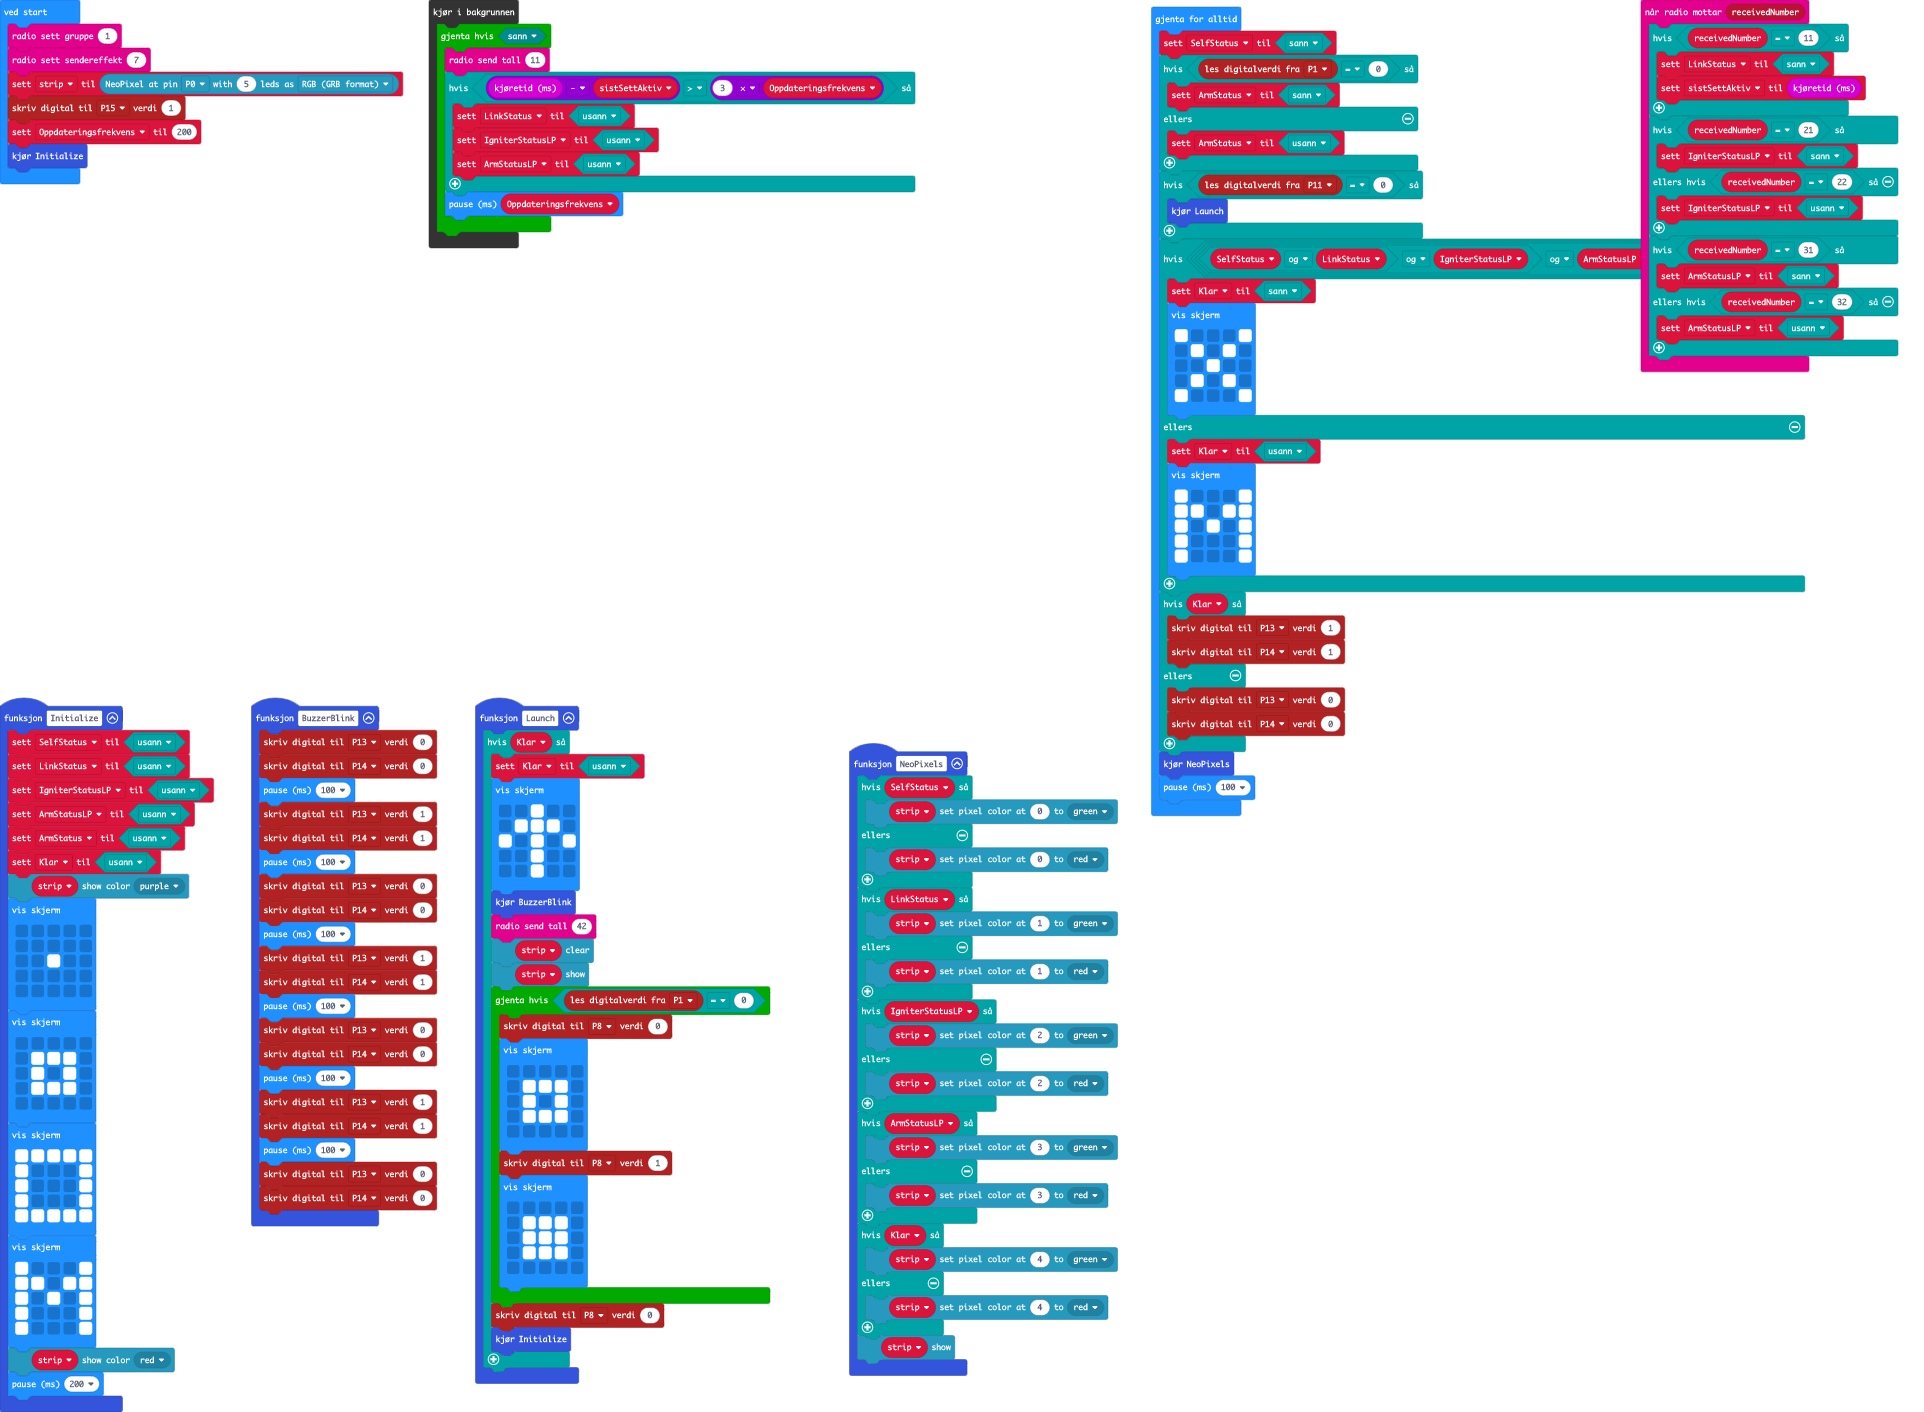
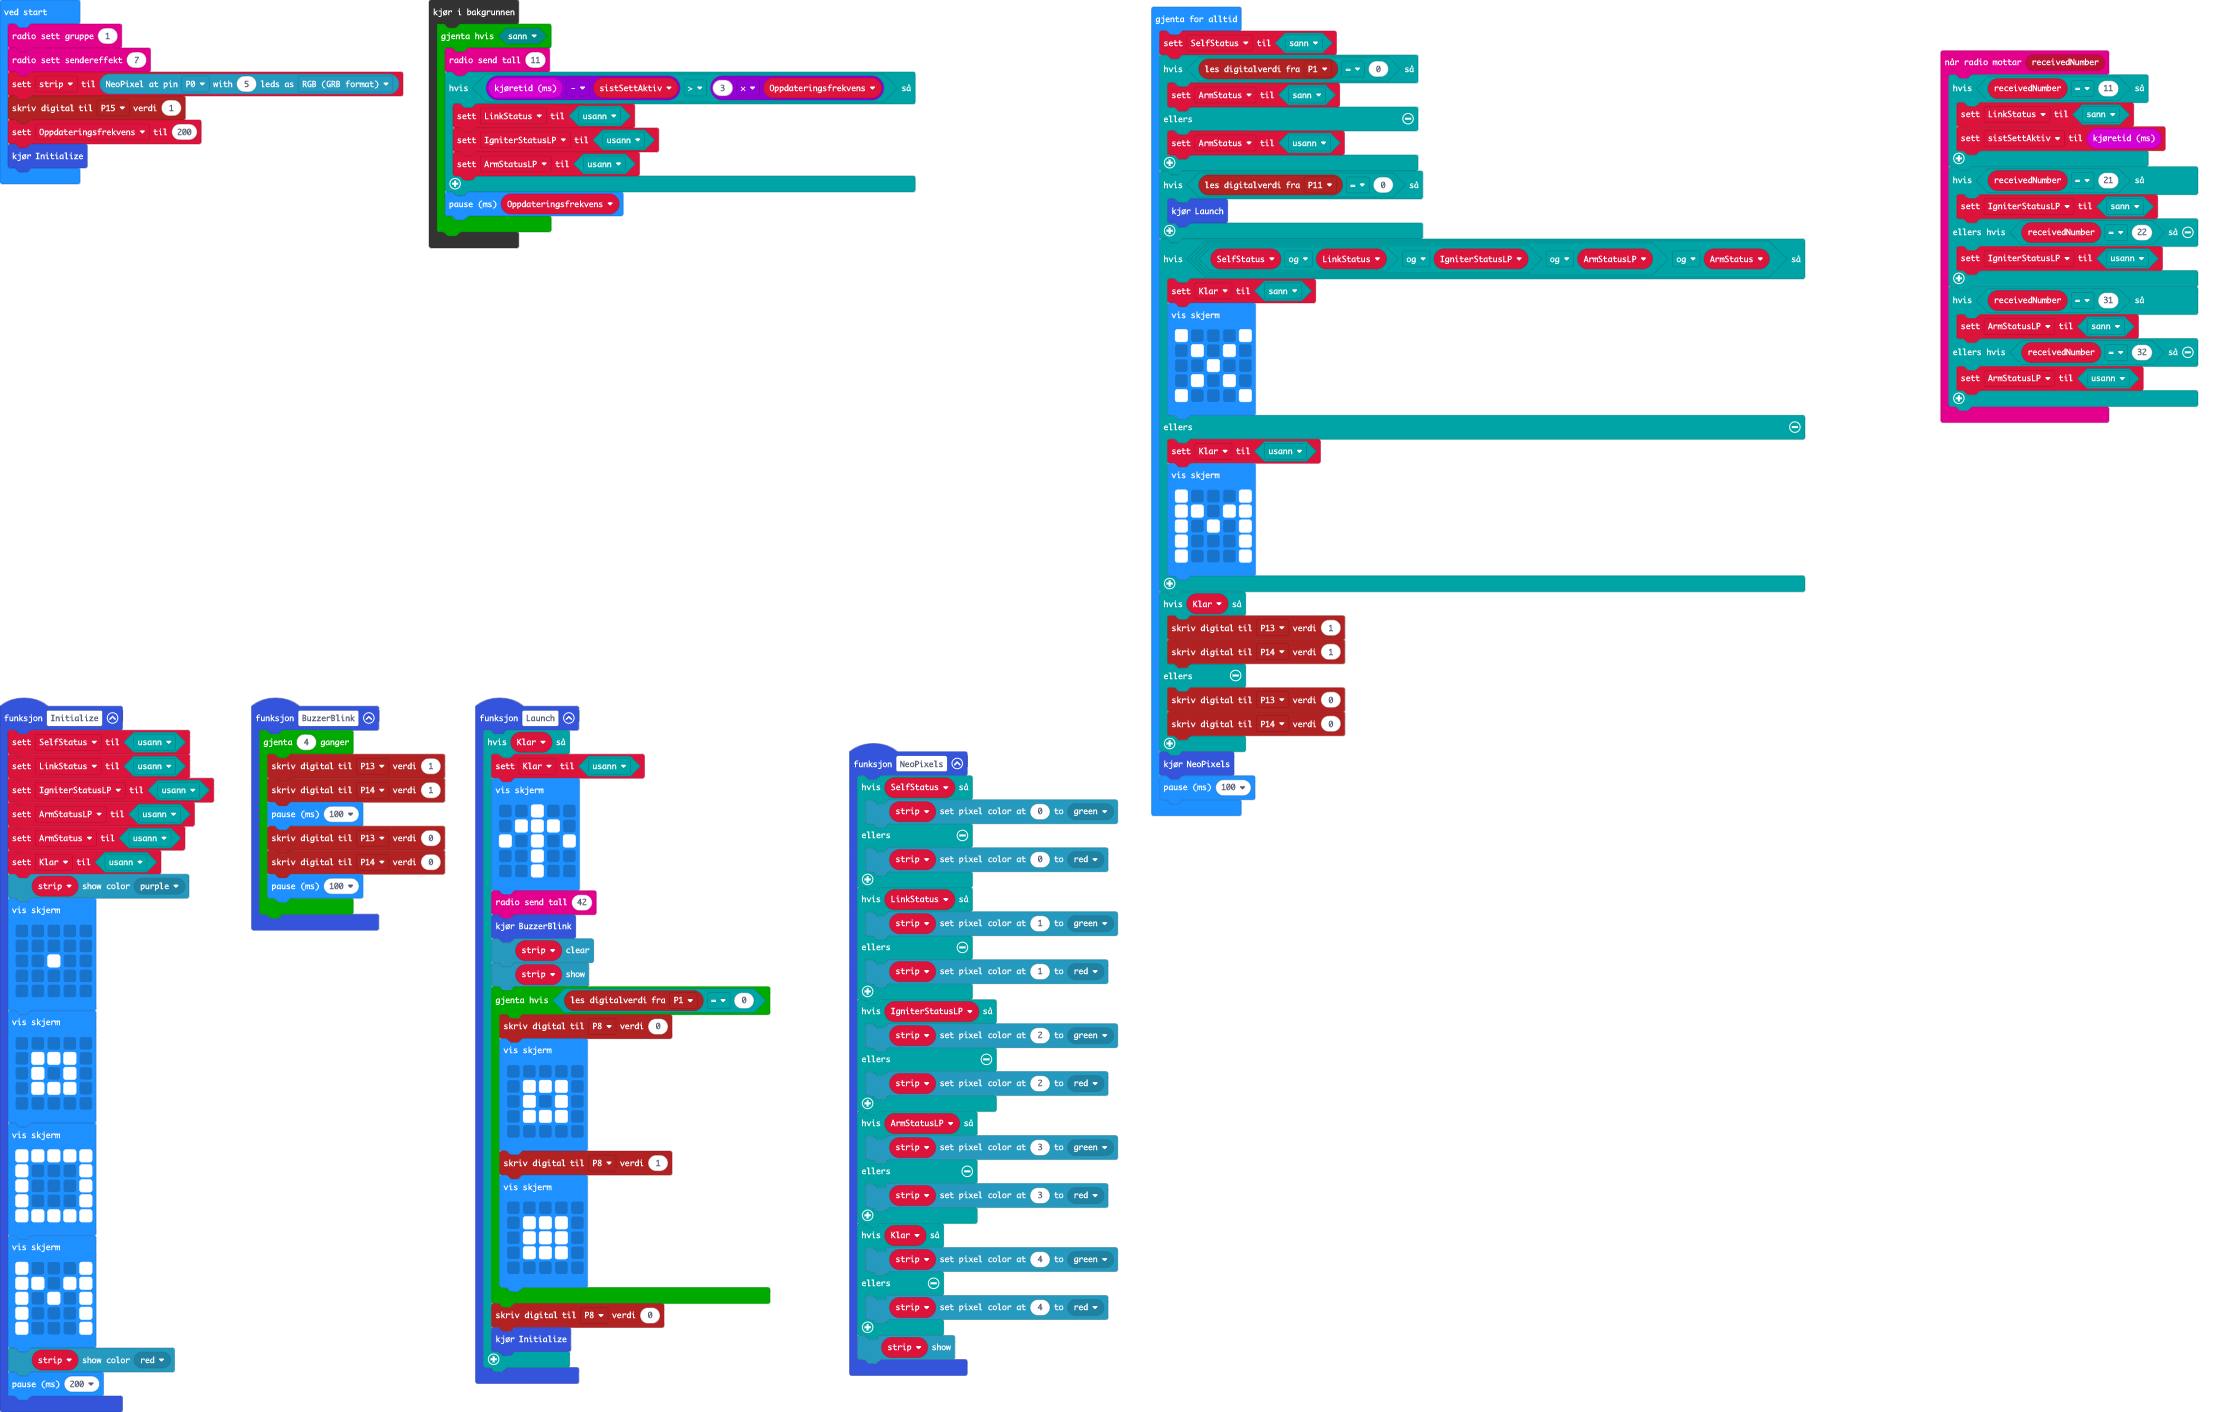
Oppdater main.blocks, main.ts

Changed region(s): [[0.0, 0.0, 0.7796, 1.0], [0.8108, 0.0, 0.9979, 0.3116], [0.8108, 0.4051, 0.9356, 0.4363]]

diff --git a/main.ts b/main.ts
@@ -52,8 +52,8 @@ function Launch () {
             . . # . .
             . . # . .
             `)
-        BuzzerBlink()
         radio.sendNumber(42)
+        BuzzerBlink()
         strip.clear()
         strip.show()
         while (pins.digitalReadPin(DigitalPin.P1) == 0) {
@@ -118,26 +118,14 @@ function Initialize () {
     basic.pause(200)
 }
 function BuzzerBlink () {
-    pins.digitalWritePin(DigitalPin.P13, 0)
-    pins.digitalWritePin(DigitalPin.P14, 0)
-    basic.pause(100)
-    pins.digitalWritePin(DigitalPin.P13, 1)
-    pins.digitalWritePin(DigitalPin.P14, 1)
-    basic.pause(100)
-    pins.digitalWritePin(DigitalPin.P13, 0)
-    pins.digitalWritePin(DigitalPin.P14, 0)
-    basic.pause(100)
-    pins.digitalWritePin(DigitalPin.P13, 1)
-    pins.digitalWritePin(DigitalPin.P14, 1)
-    basic.pause(100)
-    pins.digitalWritePin(DigitalPin.P13, 0)
-    pins.digitalWritePin(DigitalPin.P14, 0)
-    basic.pause(100)
-    pins.digitalWritePin(DigitalPin.P13, 1)
-    pins.digitalWritePin(DigitalPin.P14, 1)
-    basic.pause(100)
-    pins.digitalWritePin(DigitalPin.P13, 0)
-    pins.digitalWritePin(DigitalPin.P14, 0)
+    for (let index = 0; index < 4; index++) {
+        pins.digitalWritePin(DigitalPin.P13, 1)
+        pins.digitalWritePin(DigitalPin.P14, 1)
+        basic.pause(100)
+        pins.digitalWritePin(DigitalPin.P13, 0)
+        pins.digitalWritePin(DigitalPin.P14, 0)
+        basic.pause(100)
+    }
 }
 let ArmStatus = false
 let Klar = false
